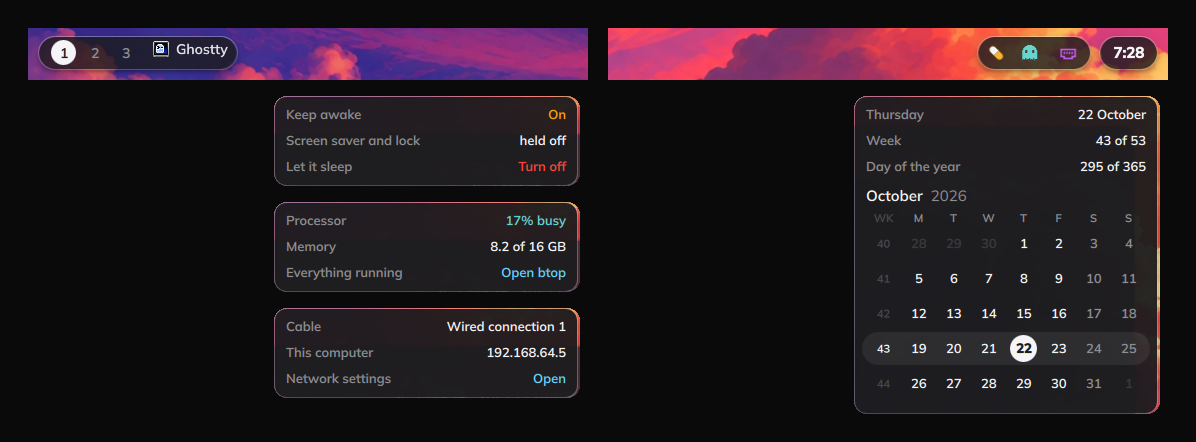
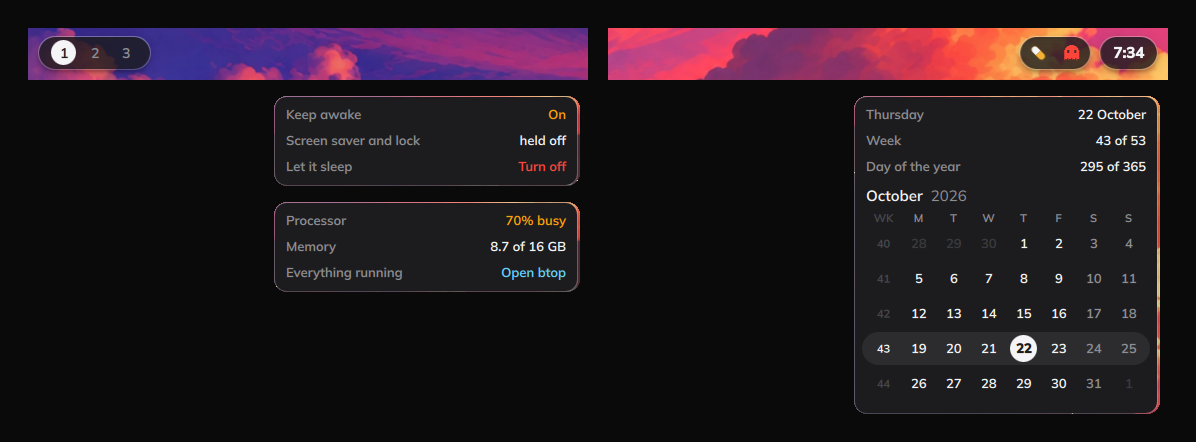
fix: on Omarchy, just the chips on the left and no badge on a cable
The app in focus beside the chips, and the network port mark on a wired
connection, read as clutter; both go. Wi-Fi still shows its dots. Cards are
opaque, so nothing behind one reads through.

diff --git a/linux/omarchy/kuro-bar/Kuro.js b/linux/omarchy/kuro-bar/Kuro.js
@@ -41,8 +41,8 @@ var cardRow = 26
 var cardFontSize = 13
 var cardPad = 12
 var cardRadius = 12
-// Nearly opaque: a card can open over a notification, and it must not read through.
-var card = "#f51c1c1e"
+// Opaque: a card opens over windows and notifications, and none may read through.
+var card = "#ff1c1c1e"
 
 // The heat scale the vitals ghost wears: idle, light, working, heavy, maxed out.
 var heat = ["#66d4cf", "#32d74b", "#ffd60a", "#ff9f0a", "#ff453a"]

diff --git a/linux/omarchy/kuro-bar/Badges.qml b/linux/omarchy/kuro-bar/Badges.qml
@@ -181,7 +181,9 @@ Pill {
   Badge {
     id: net
     name: root.primary ? "wifi" : ""
-    visible: root.kuro.hasBadge("wifi")
+    // Wi-Fi only: on a cable there is nothing worth a badge (the port mark
+    // read as noise), so the badge goes until the Mac is on Wi-Fi again.
+    visible: root.kuro.hasBadge("wifi") && root.netType !== "ethernet"
     kuro: root.kuro
     mark: DotsMark {
       cable: root.netType === "ethernet"

diff --git a/linux/omarchy/kuro-bar/Panel.qml b/linux/omarchy/kuro-bar/Panel.qml
@@ -36,9 +36,10 @@ PanelWindow {
     y: K.pillY
     spacing: K.pillGap
 
+    // Just the chips. The app in focus sat beside them until 2026-10-22; on
+    // Omarchy it read as clutter, so it went.
     Pill {
       Workspaces { kuro: panel.kuro; monitor: panel.monitor }
-      AppLabel { kuro: panel.kuro; monitor: panel.monitor }
     }
     MediaPill { kuro: panel.kuro; visible: panel.primary && hasMedia }
   }

diff --git a/linux/omarchy/README.md b/linux/omarchy/README.md
@@ -14,12 +14,11 @@ git clone https://github.com/mostlygino/Kuro.git ~/src/Kuro
 
 | Part | On the Mac | Here |
 |---|---|---|
-| Workspaces | AeroSpace, numbered per screen | Hyprland, Omarchy's block of ten per monitor, numbered 1 to 10 |
-| The app in focus | its icon and name, `void` on an empty screen | the same, from Hyprland and the desktop entries |
+| Workspaces | AeroSpace, numbered per screen, the app in focus beside them | Hyprland, Omarchy's block of ten per monitor, numbered 1 to 10; just the chips |
 | Now Playing | `mediawatch` on `media-control` | MPRIS: a spinning cover disc, title ~ artist, click plays or pauses |
 | Keep awake | the capsule, `caffeinate` | the capsule, Omarchy's idle service (`omarchy-shell idle`) |
 | Vitals | the ghost, from Vitals | the ghost, from `/proc`: the same heat scale and dead band |
-| Network | four dots, a port on a cable | the same, from NetworkManager |
+| Network | four dots, a port on a cable | four dots on Wi-Fi, from NetworkManager; nothing on a cable |
 | Tailscale, battery | shield and ring | the same, where Tailscale is installed and there is a battery |
 | Clock | 12-hour, a card with the month | the same card, ISO weeks down the side |
 

diff --git a/README.md b/README.md
@@ -442,7 +442,7 @@ off is never built at all: no item, no script, nothing polled.
 ## On Omarchy
 
 <p align="center">
-  <img src="docs/omarchy-bar.png" alt="Kuro's bar on Omarchy: workspace chips and the app in focus on the left, the badge pill and the clock on the right" width="100%">
+  <img src="docs/omarchy-bar.png" alt="Kuro's bar on Omarchy: workspace chips on the left, the badge pill and the clock on the right, with three of its cards" width="100%">
 </p>
 
 Kuro also runs on [Omarchy](https://omarchy.org) 4.5, as an Omarchy shell bar plugin: the same pills,
